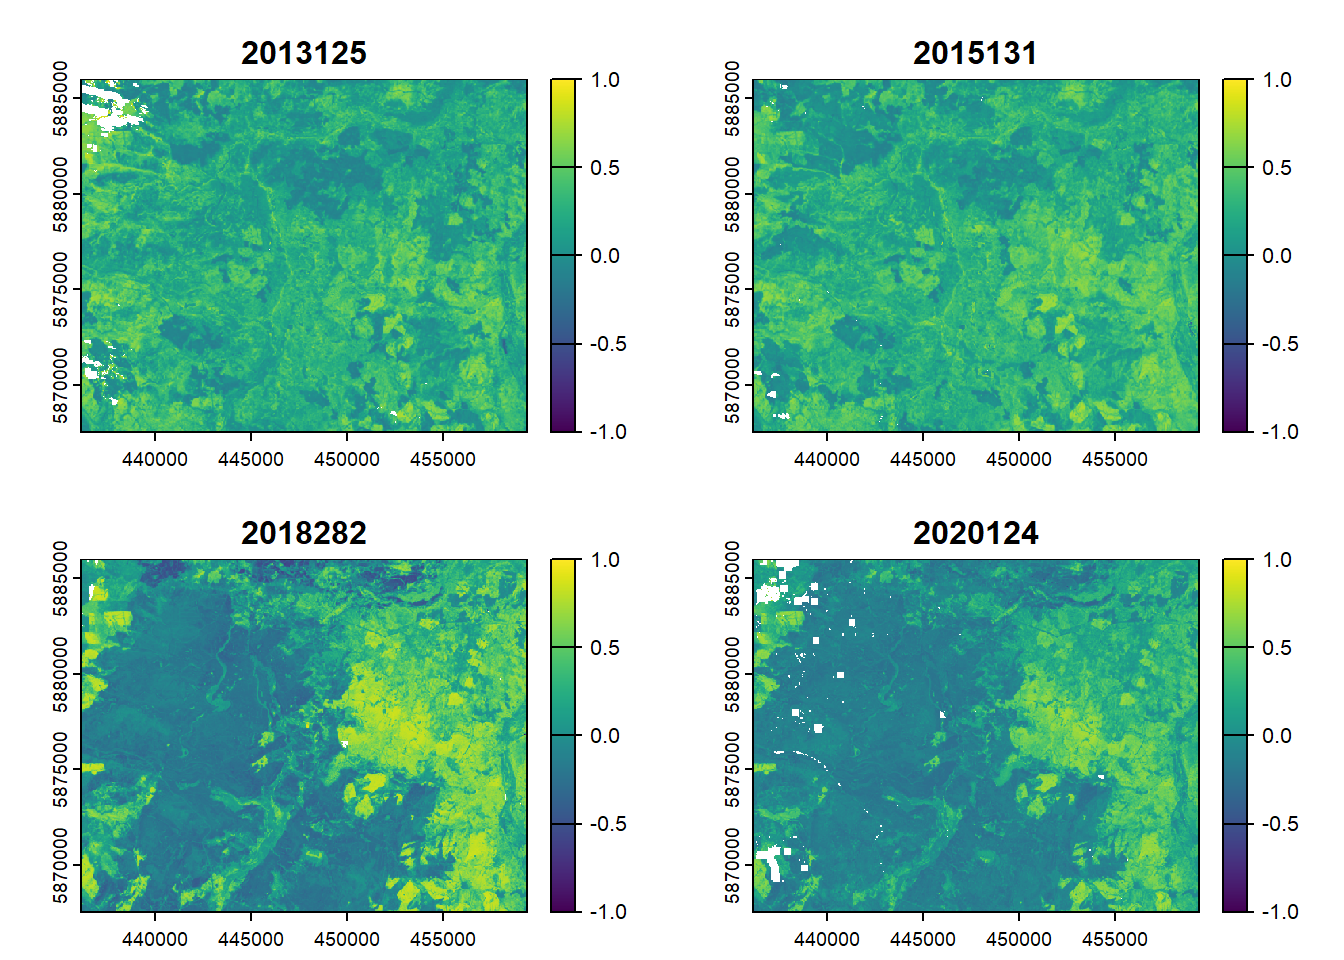
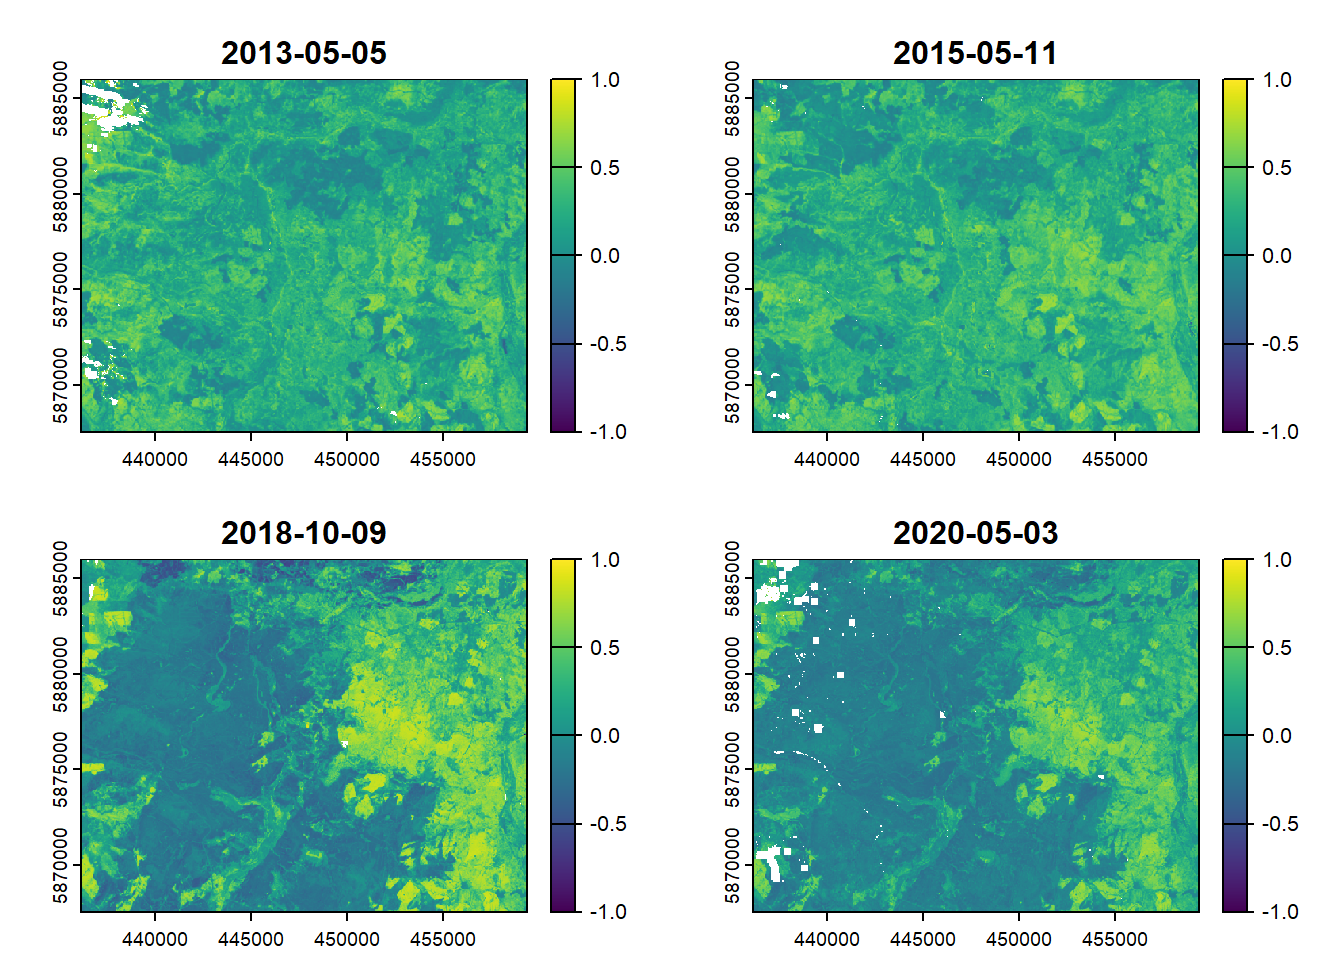
change date labels

diff --git a/docs/index.html b/docs/index.html
@@ -130,18 +130,21 @@ pre > code.sourceCode > span > a:first-child::before { text-decoration: underlin
 <span id="cb2-4"><a href="#cb2-4" aria-hidden="true" tabindex="-1"></a><span class="co"># let's look at a few of the NBR images to get a sense of what to expect in the results</span></span>
 <span id="cb2-5"><a href="#cb2-5" aria-hidden="true" tabindex="-1"></a>example.dates <span class="ot">=</span> <span class="fu">c</span>(<span class="st">"2013125"</span>, <span class="st">"2015131"</span>, <span class="st">"2018282"</span>, <span class="st">"2020124"</span>)</span>
 <span id="cb2-6"><a href="#cb2-6" aria-hidden="true" tabindex="-1"></a></span>
-<span id="cb2-7"><a href="#cb2-7" aria-hidden="true" tabindex="-1"></a><span class="co"># here the date format is YYYYDDD, where YYYY is the year, and DDD is the julian date</span></span>
-<span id="cb2-8"><a href="#cb2-8" aria-hidden="true" tabindex="-1"></a></span>
-<span id="cb2-9"><a href="#cb2-9" aria-hidden="true" tabindex="-1"></a>date.range <span class="ot">=</span> <span class="fu">str_remove_all</span>(fl, <span class="st">"[:alpha:]|[:punct:]"</span>) <span class="sc">%&gt;%</span> </span>
-<span id="cb2-10"><a href="#cb2-10" aria-hidden="true" tabindex="-1"></a>             <span class="fu">str_sort</span>(<span class="at">numeric =</span> T) <span class="sc">%&gt;%</span> </span>
-<span id="cb2-11"><a href="#cb2-11" aria-hidden="true" tabindex="-1"></a>             .[<span class="fu">c</span>(<span class="dv">1</span>, <span class="fu">length</span>(.))] <span class="sc">%&gt;%</span> </span>
-<span id="cb2-12"><a href="#cb2-12" aria-hidden="true" tabindex="-1"></a>             <span class="fu">as.Date</span>(<span class="at">format =</span> <span class="st">"%Y%j"</span>)</span>
-<span id="cb2-13"><a href="#cb2-13" aria-hidden="true" tabindex="-1"></a></span>
-<span id="cb2-14"><a href="#cb2-14" aria-hidden="true" tabindex="-1"></a><span class="fu">str_subset</span>(fl, <span class="fu">paste0</span>(example.dates, <span class="at">collapse =</span> <span class="st">"|"</span>)) <span class="sc">%&gt;%</span></span>
-<span id="cb2-15"><a href="#cb2-15" aria-hidden="true" tabindex="-1"></a>  <span class="fu">str_sort</span>(<span class="at">numeric =</span> T) <span class="sc">%&gt;%</span> </span>
-<span id="cb2-16"><a href="#cb2-16" aria-hidden="true" tabindex="-1"></a>  <span class="fu">rast</span>() <span class="sc">%&gt;%</span> </span>
-<span id="cb2-17"><a href="#cb2-17" aria-hidden="true" tabindex="-1"></a>  <span class="fu">setNames</span>(example.dates) <span class="sc">%&gt;%</span> </span>
-<span id="cb2-18"><a href="#cb2-18" aria-hidden="true" tabindex="-1"></a>  <span class="fu">plot</span>(<span class="at">col =</span> viridisLite<span class="sc">::</span><span class="fu">viridis</span>(<span class="dv">255</span>), <span class="at">range =</span> <span class="fu">c</span>(<span class="sc">-</span><span class="dv">1</span>, <span class="dv">1</span>))</span></code><button title="Copy to Clipboard" class="code-copy-button"><i class="bi"></i></button></pre></div>
+<span id="cb2-7"><a href="#cb2-7" aria-hidden="true" tabindex="-1"></a>dates.ymd <span class="ot">=</span> <span class="fu">as.Date</span>(example.dates, <span class="at">format =</span> <span class="st">"%Y%j"</span>) <span class="sc">%&gt;%</span> </span>
+<span id="cb2-8"><a href="#cb2-8" aria-hidden="true" tabindex="-1"></a>            <span class="fu">as.character</span>()</span>
+<span id="cb2-9"><a href="#cb2-9" aria-hidden="true" tabindex="-1"></a></span>
+<span id="cb2-10"><a href="#cb2-10" aria-hidden="true" tabindex="-1"></a><span class="co"># here the date format is YYYYDDD, where YYYY is the year, and DDD is the julian date</span></span>
+<span id="cb2-11"><a href="#cb2-11" aria-hidden="true" tabindex="-1"></a>date.range <span class="ot">=</span> <span class="fu">str_remove_all</span>(fl, <span class="st">"[:alpha:]|[:punct:]"</span>) <span class="sc">%&gt;%</span> </span>
+<span id="cb2-12"><a href="#cb2-12" aria-hidden="true" tabindex="-1"></a>             <span class="fu">str_sort</span>(<span class="at">numeric =</span> T) <span class="sc">%&gt;%</span> </span>
+<span id="cb2-13"><a href="#cb2-13" aria-hidden="true" tabindex="-1"></a>             .[<span class="fu">c</span>(<span class="dv">1</span>, <span class="fu">length</span>(.))] <span class="sc">%&gt;%</span> </span>
+<span id="cb2-14"><a href="#cb2-14" aria-hidden="true" tabindex="-1"></a>             <span class="fu">as.Date</span>(<span class="at">format =</span> <span class="st">"%Y%j"</span>)</span>
+<span id="cb2-15"><a href="#cb2-15" aria-hidden="true" tabindex="-1"></a></span>
+<span id="cb2-16"><a href="#cb2-16" aria-hidden="true" tabindex="-1"></a><span class="co"># plot the four example images and the date range for the time series</span></span>
+<span id="cb2-17"><a href="#cb2-17" aria-hidden="true" tabindex="-1"></a><span class="fu">str_subset</span>(fl, <span class="fu">paste0</span>(example.dates, <span class="at">collapse =</span> <span class="st">"|"</span>)) <span class="sc">%&gt;%</span></span>
+<span id="cb2-18"><a href="#cb2-18" aria-hidden="true" tabindex="-1"></a>  <span class="fu">str_sort</span>(<span class="at">numeric =</span> T) <span class="sc">%&gt;%</span> </span>
+<span id="cb2-19"><a href="#cb2-19" aria-hidden="true" tabindex="-1"></a>  <span class="fu">rast</span>() <span class="sc">%&gt;%</span> </span>
+<span id="cb2-20"><a href="#cb2-20" aria-hidden="true" tabindex="-1"></a>  <span class="fu">setNames</span>(dates.ymd) <span class="sc">%&gt;%</span> </span>
+<span id="cb2-21"><a href="#cb2-21" aria-hidden="true" tabindex="-1"></a>  <span class="fu">plot</span>(<span class="at">col =</span> viridisLite<span class="sc">::</span><span class="fu">viridis</span>(<span class="dv">255</span>), <span class="at">range =</span> <span class="fu">c</span>(<span class="sc">-</span><span class="dv">1</span>, <span class="dv">1</span>))</span></code><button title="Copy to Clipboard" class="code-copy-button"><i class="bi"></i></button></pre></div>
 <div class="cell-output-display">
 <div>
 <figure class="figure">
